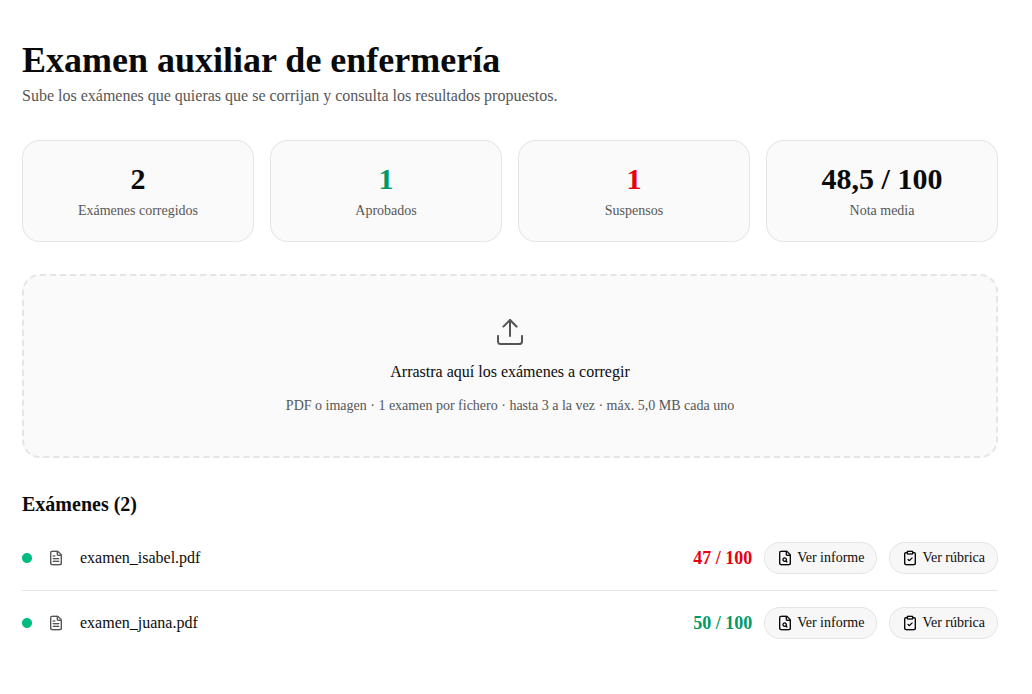
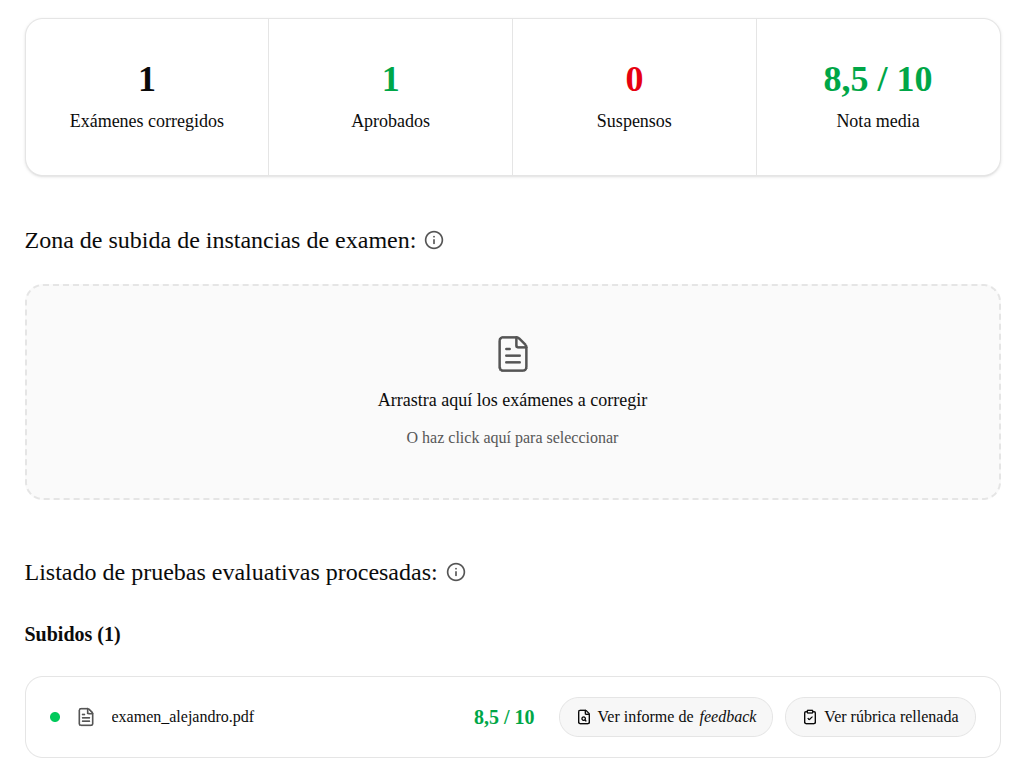
Modificada la imagen de la landing page

diff --git a/frontend/src/app/(public)/login/page.tsx b/frontend/src/app/(public)/login/page.tsx
@@ -76,19 +76,19 @@ export default function LandingPage() {
           </span>
         </h1>
 
-        <div className="grid grid-cols-1 gap-12 lg:grid-cols-[2fr_5fr]">
+        <div className="grid grid-cols-1 gap-12 lg:grid-cols-[2fr_3fr]">
           <div className="flex flex-col justify-center items-center">
             <AuthForm />
           </div>
 
           <div className="flex flex-col gap-4">
-            <div className="relative min-h-[460px] overflow-hidden rounded-2xl border border-zinc-200 bg-zinc-100 dark:border-zinc-700 dark:bg-zinc-800 lg:min-h-[560px]">
+            <div className="relative aspect-[1027/780] overflow-hidden rounded-2xl border border-zinc-200 bg-zinc-100 dark:border-zinc-700 dark:bg-zinc-800">
               <Image
                 src="/images/korrijo-landing-image.png"
                 alt="Imagen de una sesión de corrección de Korrijo"
                 fill
                 priority
-                sizes="(min-width: 1024px) 71vw, 100vw"
+                sizes="(min-width: 1024px) 60vw, 100vw"
                 className="object-cover"
               />
             </div>
